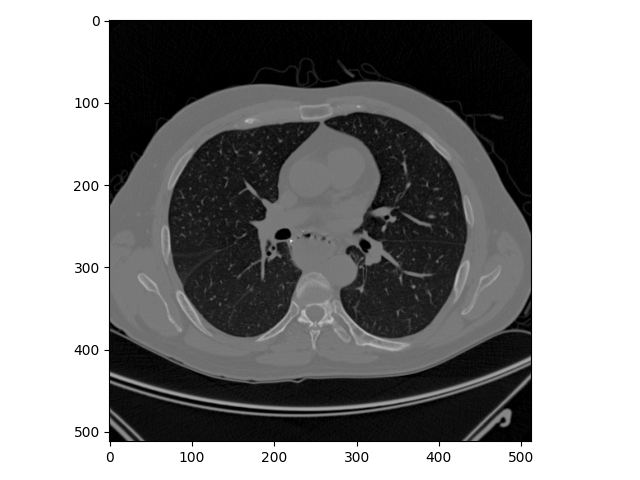
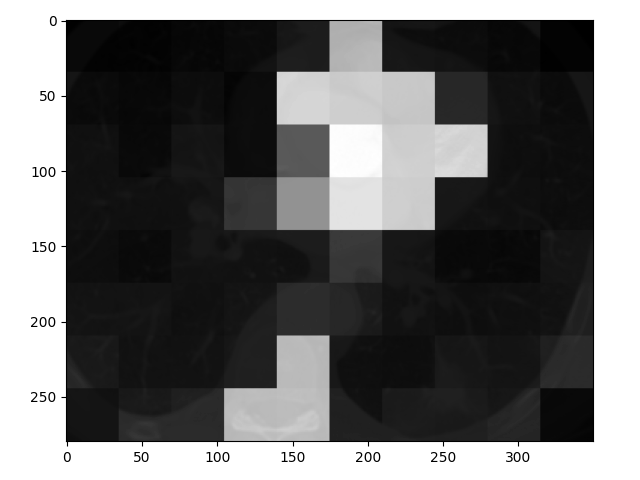
updated third algorithm with the new procedure

diff --git a/ct_charachterization/_third_algorithm.py b/ct_charachterization/_third_algorithm.py
@@ -1,46 +1,47 @@
 import numpy as np
 from ct_charachterization import run_first_algorithms
 import matplotlib.pyplot as plt
-from ct_charachterization.utility.utils import broadcast_tile
+from ct_charachterization.utility.utils import broadcast_tile, split_matrix, sum_of_each_patch
 
 
-def run_third_algorithm(y: np.array, mu: np.array, delta=-1030, max_iter=10, tol=0.01, constant_c=10,
-                        non_central=False):
+def run_third_algorithm(y: np.array, mu: np.array, neighborhood_size: int, delta=-1030, max_iter=10, tol=0.0000001,
+                        constant_c=10, non_central=False):
     big_jay = len(mu)
     if non_central:
         mu = mu - delta
         y = y - delta
-    theta, gamma = run_first_algorithms(y, mu=mu, delta=delta, max_iter=max_iter, tol=tol)
-    # sclm: sample_conditioned_local_moment
-    whole_axises = tuple(range(len(gamma.shape)))
-    shape_of_mini_matrices = [1 for _ in y.shape]
-    shape_of_mini_matrices.append(big_jay)
-    shape_of_mini_matrices = tuple(shape_of_mini_matrices)
-    form_of_first_mini_sclm = np.sum(np.sqrt(np.expand_dims(y, axis=-1)) * gamma, axis=whole_axises[:-1]).reshape(
-        shape_of_mini_matrices)
-    form_of_second_mini_sclm = np.sum(np.expand_dims(y, axis=-1) * gamma, axis=whole_axises[:-1]).reshape(
-        shape_of_mini_matrices)
-    denominator_summation = np.sum(gamma, axis=whole_axises[:-1]).reshape(shape_of_mini_matrices)
-    first_mini_sclm = form_of_first_mini_sclm / denominator_summation
-    second_mini_sclm = form_of_second_mini_sclm / denominator_summation
-    br_to_shape = list(y.shape)
-    br_to_shape.append(1)
-    br_to_shape = tuple(br_to_shape)
-    first_sclm = np.sum(broadcast_tile(first_mini_sclm, br_to_shape) * theta[0, :], axis=whole_axises[-1])
-    second_sclm = np.sum(broadcast_tile(second_mini_sclm, br_to_shape) * theta[0, :], axis=whole_axises[-1])
-    var_of_radical_y = second_sclm - np.power(first_sclm, 2)
-    stable_y = (constant_c * (np.sqrt(y) - first_sclm) / np.sqrt(var_of_radical_y)) + second_sclm
-    return stable_y, theta, gamma
+    theta, gamma = run_first_algorithms(y, mu=mu, neighborhood_size=neighborhood_size, delta=delta, max_iter=max_iter,
+                                        tol=tol)
+    shape_to_be_patched = tuple([neighborhood_size for _ in y.shape])
+    patched_y = split_matrix(y, shape_to_be_patched)
+    patched_radical_y = split_matrix(np.sqrt(y), shape_to_be_patched)
+    moments_size = tuple(list(y.shape) + [big_jay])
+    first_local_sample_conditioned_moment = np.empty(moments_size, dtype=float)
+    second_local_sample_conditioned_moment = np.empty(moments_size, dtype=float)
+    for j in range(big_jay):
+        patched_gamma_j = split_matrix(gamma[..., j], shape_to_be_patched)
+        first_numerator_summation = broadcast_tile(sum_of_each_patch(patched_gamma_j * patched_radical_y),
+                                                   shape_to_be_patched)
+        second_numerator_summation = broadcast_tile(sum_of_each_patch(patched_gamma_j * patched_y), shape_to_be_patched)
+        denominator_summation = broadcast_tile(sum_of_each_patch(patched_gamma_j), shape_to_be_patched)
+        first_local_sample_conditioned_moment[..., j] = first_numerator_summation / denominator_summation
+        second_local_sample_conditioned_moment[..., j] = second_numerator_summation / denominator_summation
+    local_sample_variance = second_local_sample_conditioned_moment - np.power(first_local_sample_conditioned_moment, 2)
+    y_stab = (constant_c * (np.expand_dims(np.sqrt(y),
+                                           axis=-1) - first_local_sample_conditioned_moment) / local_sample_variance) + second_local_sample_conditioned_moment  # noqa
+    return y_stab
 
 
 if __name__ == '__main__':
     # mu_5 = np.array([-1000, -700, -90, 50, 300])
     mu_5 = np.array([-870, -90, 50])
     # MU = np.array([340, 240, 100, 0, -160, -370, -540, -810, -987])
-    img = np.load(f'''../resources/my_lungs.npy''')[200:380, 140:390]
-    stabilized_y, _, _ = run_third_algorithm(img, mu_5, non_central=True, constant_c=10)
+    img = np.load(f'''../resources/luna_cropped.npy''')
+    stabilized_y = run_third_algorithm(img, mu_5, non_central=True, constant_c=10, neighborhood_size=35)
     plt.imshow(img, cmap='gray')
     plt.show()
-
-    plt.imshow(stabilized_y, cmap='gray')
+    sy = stabilized_y[..., 0]
+    print(sy.shape)
+    plt.imshow(sy, cmap='gray')
     plt.show()
+    print(np.min(sy) - 1030, np.mean(sy) - 1030, np.max(sy) - 1030)
